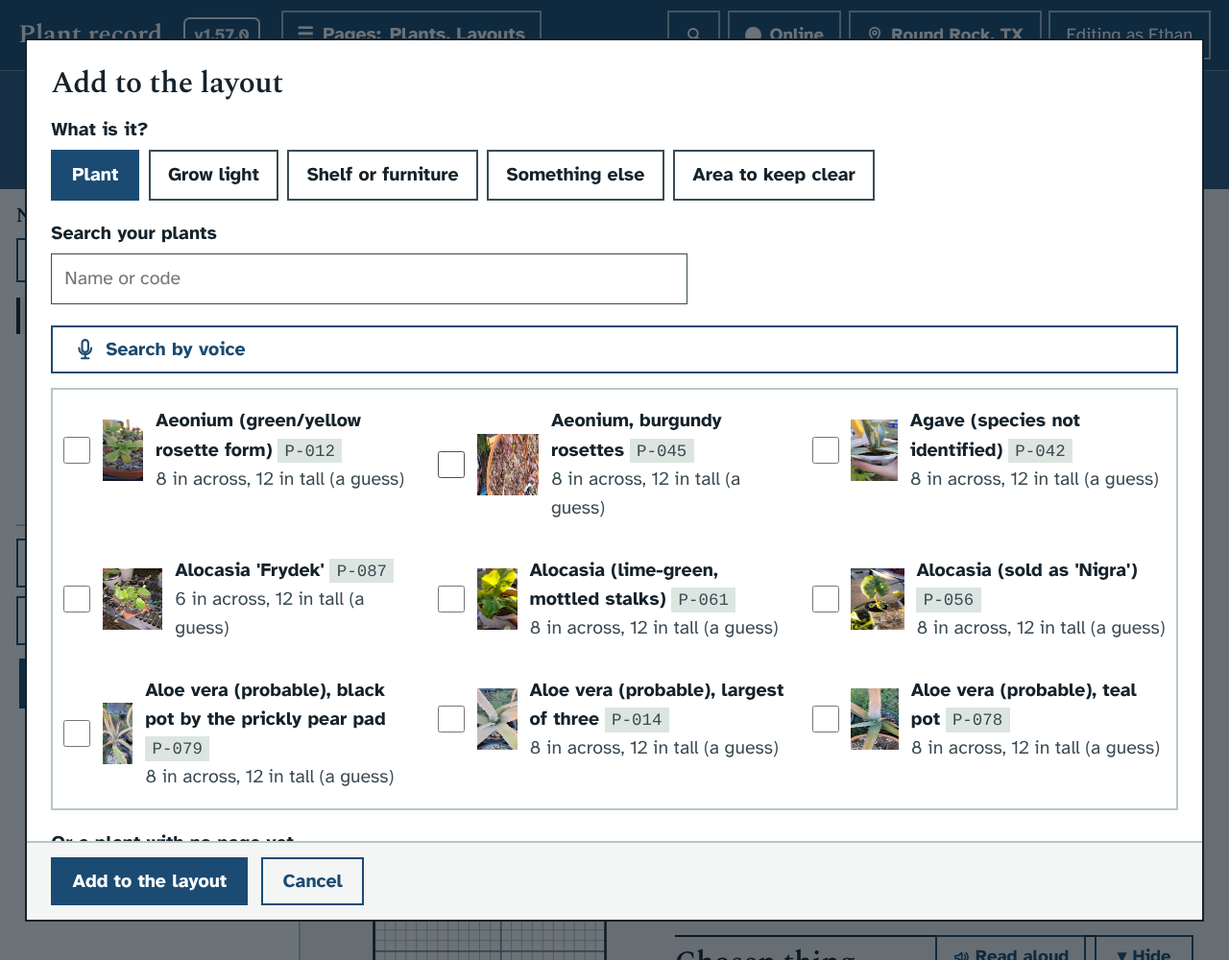
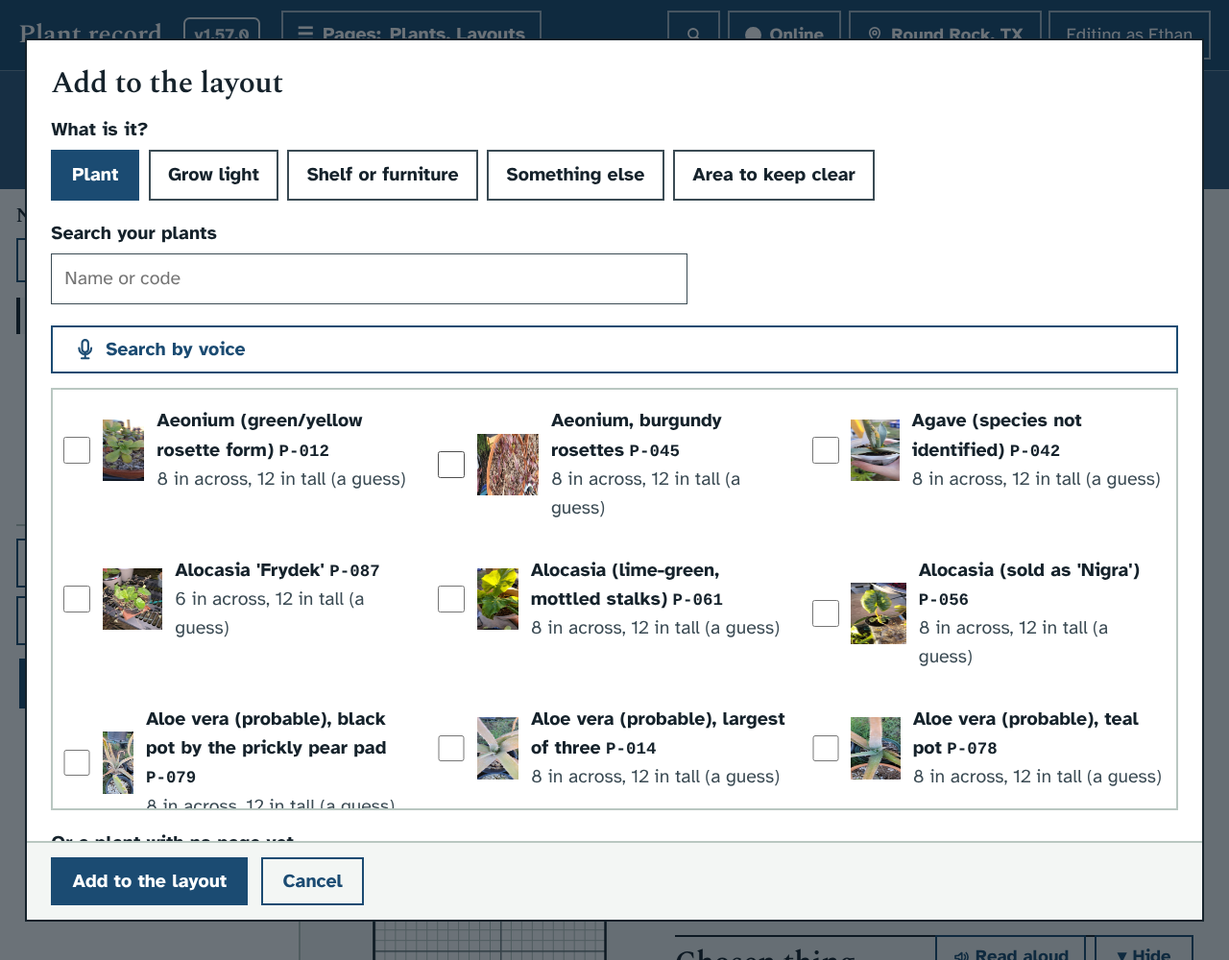
Layouts: things far from every wall have a front view of their own
Ethan, November 15, 2026: "Things far away from every wall should have a view
of their own and not be shown in the front view for the specified wall."

- A thing is at a wall when it is within 2 ft of it. A thing farther than
  that from every wall is in no wall's view: it is in "Middle", a view of
  its own that looks the way the back wall's view does. The front view goes
  there when such a thing is chosen.
- The list of views has short words (Back wall, Left wall, Right wall, Front
  wall, Middle, Everything), so none is cut off at the largest, widest text
  on a phone. The line above the drawing says how many things are there.
- For the colour themes that main now has: a plant's code on this page has
  no chip behind it and stands outside the muted text, and "Show it" has a
  plain background. Each was under 7 to 1 in a dark theme.

Claude-Session: https://claude.ai/code/session_01Utgyt8oq66snddSh4PMk6D

diff --git a/app/static/js/layouts.js b/app/static/js/layouts.js
@@ -420,32 +420,34 @@ function lyLevelNow() {
 // ---------- the front view, one wall at a time ----------
 // In a room, an area or a space of your own the front view looks at one wall from inside and draws only the things at that wall
 // (Ethan, November 15, 2026: "focus its perspective on one wall at a time, to reduce screen clutter"). A thing is at a wall when it
-// is within LY_WALL_IN of it, or when no wall is nearer; what stands on a thing or hangs under it is wherever that thing is. So
-// every thing is in at least one wall's view. 'all' draws everything, looking at the back wall, which is also what the layout
-// of one shelf or spot always does. Looking at a wall, the view's left is your left as you face it:
+// is within LY_WALL_IN of it; what stands on a thing or hangs under it is wherever that thing is. A thing far from every wall is
+// at none of them: those have a view of their own, 'mid' (Ethan, November 15: "Things far away from every wall should have a view
+// of their own and not be shown in the front view for the specified wall"). So every thing is in at least one view. 'all' draws
+// everything, as the layout of one shelf or spot always does. 'mid' and 'all' look the way the back wall's view does. Looking at
+// a wall, the view's left is your left as you face it:
 //   back   left to right is the top view's left to right
 //   right  left to right is the top view's back to front
 //   front  left to right is the top view's right to left
 //   left   left to right is the top view's front to back
-const LY_WALLS = { back: 'The back wall', left: 'The left wall', right: 'The right wall', front: 'The front wall', all: 'Every wall at once' };
-const LY_WALL_OPT = { back: 'Back wall', left: 'Left wall', right: 'Right wall', front: 'Front wall', all: 'Every wall' };      // as the list beside the front view has them
+const LY_WALLS = { back: 'The back wall', left: 'The left wall', right: 'The right wall', front: 'The front wall', mid: 'The middle, away from the walls', all: 'Everything at once' };
+const LY_WALL_OPT = { back: 'Back wall', left: 'Left wall', right: 'Right wall', front: 'Front wall', mid: 'Middle', all: 'Everything' };      // as the list beside the front view has them: short, so none is cut off in the list at the largest, widest text on a phone
 const LY_WALL_ENDS = { back: ['Left', 'Right'], right: ['Back', 'Front'], front: ['Right', 'Left'], left: ['Front', 'Back'] };      // what is at the view's left and right
-const LY_WALL_IN = 6;
+const LY_WALL_IN = 24;                                  // nearer a wall than this (2 ft), a thing is at that wall
 const lyWalled = L => !L.spot_id;
-const lyFaceOf = wall => (wall && wall !== 'all' ? wall : 'back');
+const lyFaceOf = wall => (LY_WALL_ENDS[wall] ? wall : 'back');
 const lyFaceNow = () => (LY && lyWalled(LY.d) ? lyFaceOf(LY.wall) : 'back');
 const lySide = face => face === 'left' || face === 'right';
 const lyAcrossW = (L, face) => (lySide(face) ? L.depth_in : L.width_in);                                   // how wide that wall is
 const lyAc = (L, it, face) => (face === 'left' ? L.depth_in - it.y - it.d : face === 'right' ? it.y : face === 'front' ? L.width_in - it.x - it.w : it.x);      // where a thing is across the view, from its left
 const lyAw = (it, face) => (lySide(face) ? it.d : it.w);                                                  // and how wide it is there
 const lyNear = (L, it, face) => (face === 'left' ? it.x + it.w : face === 'right' ? L.width_in - it.x : face === 'front' ? L.depth_in - it.y : it.y + it.d);      // how far its near side is from the wall: the larger, the nearer to you
-function lyWallsOf(L, it, seen) {                        // the walls a thing is at, the first being the one the front view goes to for it
+function lyWallsOf(L, it, seen) {                        // the walls a thing is at (or 'mid' alone), the first being the view the front view goes to for it
   const u = lyUnder(L, it), c = u && u !== 'floor' ? u : it.kind === 'light' && !u ? lyOver(L, it) : null;
   seen = seen || new Set(); seen.add(it.id);
   if (c && c !== 'top' && !seen.has(c.id)) return lyWallsOf(L, c, seen);
   const d = { back: Math.max(0, it.y), left: Math.max(0, it.x), right: Math.max(0, L.width_in - it.x - it.w), front: Math.max(0, L.depth_in - it.y - it.d) };
-  const least = Math.min(d.back, d.left, d.right, d.front);
-  return Object.keys(d).filter(w => d[w] <= Math.max(least + LY_EPS, LY_WALL_IN));
+  const at = Object.keys(d).filter(w => d[w] <= LY_WALL_IN + LY_EPS);
+  return at.length ? at : ['mid'];
 }
 const lyWallSet = (L, wall) => (wall === 'all' ? null : new Set(L.items.filter(it => lyWallsOf(L, it).includes(wall)).map(it => it.id)));      // the things a wall's view draws (null: all of them)
 // The front view goes to the wall the thing is at, unless it is at the wall being looked at already. Called when a thing is
@@ -754,7 +756,7 @@ function lyOpts(view) {
     dim: view === 'top' ? lyDim(LY.d, lyLevelNow()) : null,
     label: view === 'top' ? `Top view of ${LY.d.name}, looking down. The back is at the top of the drawing and the front at the bottom.`
       : `Front view of ${LY.d.name}${walled && LY.wall !== 'all' ? `, looking at ${LY_WALLS[LY.wall].toLowerCase()}` : ''}. The floor is at the bottom of the drawing.` };
-  if (view === 'top') o.wallmark = walled && LY.wall !== 'all' && lyViewNow() === 'both' ? LY.wall : null;
+  if (view === 'top') o.wallmark = walled && LY_WALL_ENDS[LY.wall] && lyViewNow() === 'both' ? LY.wall : null;
   else { o.face = lyFaceNow(); o.only = walled ? lyWallSet(LY.d, LY.wall) : null; o.noname = lyNameClash(LY.d, o); }
   o.along = lyLabSpots(LY.d, view, o);
   return o;
@@ -765,9 +767,9 @@ function lyFigure(view) {
   return html`<figure class="ly-fig" data-view="${view}">
     <figcaption><strong>${top ? 'Top view' : one ? `Front view: ${LY_WALLS[LY.wall].toLowerCase()}` : 'Front view'}</strong> <span class="muted">${lenF(top ? L.width_in : lyAcrossW(L, face))} wide, ${top ? `${lenF(L.depth_in)} deep` : `${lenF(L.height_in)} high`}.${
       LY.grid && Math.abs(step - L.grid_in) > 0.006 ? ` The squares drawn here are ${lenF(step)}.` : ''}${top && lv ? ` Showing ${lv.name}; the other levels are faint.` : ''}${
-      top && o.wallmark ? ' The heavy edge is the wall the front view looks at.' : ''}</span></figcaption>
-    ${!top && walled ? html`<label class="f ly-wall noprint">Front view looks at<select id="ly-wall" data-act="lywall">${Object.keys(LY_WALLS).map(w => { const n = w === 'all' ? L.items.length : lyWallSet(L, w).size;
-      return html`<option value="${w}" ${LY.wall === w ? raw('selected') : ''}>${LY_WALL_OPT[w]}: ${n} ${n === 1 ? 'thing' : 'things'}</option>`; })}</select></label>` : ''}
+      top && o.wallmark ? ' The heavy edge is the wall the front view looks at.' : ''}${
+      !top && one ? (o.only.size ? ` ${o.only.size} of the ${L.items.length} things are here.` : ' Nothing is here.') : ''}</span></figcaption>
+    ${!top && walled ? html`<label class="f ly-wall noprint">Front view looks at<select id="ly-wall" data-act="lywall">${Object.keys(LY_WALLS).map(w => html`<option value="${w}" ${LY.wall === w ? raw('selected') : ''}>${LY_WALL_OPT[w]}</option>`)}</select></label>` : ''}
     <div class="ly-frame"><p class="ly-edge" aria-hidden="true">${top ? 'Back' : 'Top'}</p>
       <div class="ly-scroll" id="ly-scroll-${view}">${lySvg(L, view, o)}</div>
       <p class="ly-edge ly-edge-row" aria-hidden="true"><span>${ends[0]}</span><span>${top ? 'Front' : 'Floor'}</span><span>${ends[1]}</span></p></div></figure>`;
@@ -865,7 +867,7 @@ function lyPanel() {                                    // the chosen thing: wha
   const P = it.plant ? L.plants.find(p => p.code === it.plant) : null;
   box.innerHTML = rend(html`<div class="ly-who">${it.photo ? html`<img src="${thumbUrl(it.photo)}" alt="" loading="lazy">` : ''}
       <p><span class="ly-num">${it.sort}</span> <strong>${it.plant && !it.gone ? html`<a href="#/plant/${enc(it.plant)}">${it.name}</a>` : it.name}</strong><br>
-        <span class="muted">${L.kinds[it.kind]}${it.plant ? ', ' : ''}${it.plant ? html`<span class="code">${it.plant}</span>` : ''}${it.gone ? '. It is no longer in the record.' : ''}</span></p></div>
+        <span class="muted">${L.kinds[it.kind]}${it.plant ? ',' : ''}</span>${it.plant ? html` <span class="code">${it.plant}</span>` : ''}${it.gone ? html`<span class="muted">. It is no longer in the record.</span>` : ''}</p></div>
     <ul class="ly-flist" id="ly-p-find">${LY.F.filter(f => f.ids.includes(it.id)).map(lyFindLi)}</ul>
     ${!linked ? html`<label class="f">Name<input type="text" maxlength="80" id="ly-f-name" data-act="lyset" data-k="name" value="${it.name}" autocomplete="off" ${ro}></label>` : ''}
     <div class="field-grid three ly-fields">${num('x', 'From the left')}${num('y', 'From the back')}${num('z', 'Off the floor')}
@@ -905,7 +907,7 @@ function lyLists() {                                    // what to look at, ever
   const tags = it => F.filter(f => lyMarked(f).includes(it.id) && !lyIsLv(f.kind)).map(f => f.kind).filter((k, i, a) => a.indexOf(k) === i).map(k => html` <span class="ly-tag ${['outside', 'overlap'].includes(k) ? 'ly-tag-hard' : 'ly-tag-soft'}"><span aria-hidden="true">${['outside', 'overlap'].includes(k) ? '✗' : '!'} </span>${LY_WORD[k]}</span>`);
   document.getElementById('ly-things-body').innerHTML = rend(L.items.length ? html`<ul class="ly-list">${L.items.map(it => html`<li class="ly-row${LY.sel === it.id ? ' is-sel' : ''}${st.get(it.id) ? ' is-' + st.get(it.id) : ''}" data-id="${it.id}">
       ${it.photo ? html`<img src="${thumbUrl(it.photo)}" alt="" loading="lazy">` : html`<span class="ly-nophoto ly-np-${it.kind}" aria-hidden="true"></span>`}
-      <div class="ly-row-main"><div class="ly-row-txt"><span class="ly-num" aria-hidden="true">${it.sort}</span> <strong>${it.plant && !it.gone ? html`<a href="#/plant/${enc(it.plant)}">${it.name}</a>` : it.name}</strong> <span class="muted">${L.kinds[it.kind]}${it.plant ? ', ' : ''}${it.plant ? html`<span class="code">${it.plant}</span>` : ''}</span>${tags(it)}${lvOf(it)}
+      <div class="ly-row-main"><div class="ly-row-txt"><span class="ly-num" aria-hidden="true">${it.sort}</span> <strong>${it.plant && !it.gone ? html`<a href="#/plant/${enc(it.plant)}">${it.name}</a>` : it.name}</strong> <span class="muted">${L.kinds[it.kind]}${it.plant ? ',' : ''}</span>${it.plant ? html` <span class="code">${it.plant}</span>` : ''}${tags(it)}${lvOf(it)}
         <br><span>${lySizeWords(it)}. ${lyWhere(L, it)[0].toUpperCase() + lyWhere(L, it).slice(1)}.${it.locked ? ' Locked in place.' : ''}${it.gone ? ' No longer in the record.' : ''}${lyLightLine(it)}</span></div>
       <button class="btn small ghost" type="button" data-act="lypick" data-id="${it.id}" aria-label="${LY.sel === it.id ? 'Chosen' : 'Choose'}: ${it.sort}, ${it.name}" ${LY.sel === it.id ? raw('aria-pressed="true"') : ''}>${LY.sel === it.id ? 'Chosen' : 'Choose'}</button></div></li>`)}</ul>`
     : html`<p class="muted">Nothing is on it yet.</p>`);
@@ -914,7 +916,7 @@ function lyLists() {                                    // what to look at, ever
   document.getElementById('ly-tray-body').innerHTML = rend(html`<p>${tray.length === 1 ? 'This plant is' : `These ${tray.length} plants are`} at ${L.place || 'this place'} in your record but not on the drawing.</p>
     ${tray.length > 1 ? html`<p><button class="btn small" type="button" data-act="lytray" data-all="1">Put all ${tray.length} on the layout</button></p>` : ''}
     ${tray.length > 12 ? raw(`<details class="ly-fold"><summary class="btn small ghost"><span>Show these ${tray.length} plants</span></summary>`) : ''}<ul class="ly-list">${tray.map(p => html`<li class="ly-row">${p.photo ? html`<img src="${thumbUrl(p.photo)}" alt="" loading="lazy">` : html`<span class="ly-nophoto" aria-hidden="true"></span>`}
-      <div class="ly-row-main"><div class="ly-row-txt"><strong><a href="#/plant/${enc(p.code)}">${p.name}</a></strong> <span class="muted"><span class="code">${p.code}</span></span><br><span>${lySizeWords(p)}${p.guessed.length ? ' (a guess)' : ''}</span></div>
+      <div class="ly-row-main"><div class="ly-row-txt"><strong><a href="#/plant/${enc(p.code)}">${p.name}</a></strong> <span class="code">${p.code}</span><br><span>${lySizeWords(p)}${p.guessed.length ? ' (a guess)' : ''}</span></div>
       <button class="btn small ghost" type="button" data-act="lytray" data-code="${p.code}" aria-label="Put it on: ${p.name}">Put it on</button></div></li>`)}</ul>${tray.length > 12 ? raw('</details>') : ''}`);
   lyRecDraw();
 }
@@ -931,7 +933,7 @@ function lyRecDraw() {                                  // the plants drawn here
   document.getElementById('ly-rec-body').innerHTML = rend(!list.length ? '' : html`<p>${list.length === 1 ? 'This plant is' : `These ${list.length} plants are`} drawn here, but your record has ${list.length === 1 ? 'it' : 'them'} somewhere else. Nothing in the record changes until you say so here.</p>
     ${list.length > 1 ? html`<p><button class="btn small" type="button" id="ly-recall" data-act="lyrec" data-all="1">Move ${list.length === 2 ? 'both' : `all ${list.length}`} in the record</button></p>` : ''}
     ${list.length > 12 ? raw(`<details class="ly-fold"><summary class="btn small ghost"><span>Show these ${list.length} plants</span></summary>`) : ''}<ul class="ly-list">${list.map(({ it, to }) => html`<li class="ly-row">${it.photo ? html`<img src="${thumbUrl(it.photo)}" alt="" loading="lazy">` : html`<span class="ly-nophoto" aria-hidden="true"></span>`}
-      <div class="ly-row-main"><div class="ly-row-txt"><span class="ly-num" aria-hidden="true">${it.sort}</span> <strong><a href="#/plant/${enc(it.plant)}">${it.name}</a></strong> <span class="muted"><span class="code">${it.plant}</span></span>
+      <div class="ly-row-main"><div class="ly-row-txt"><span class="ly-num" aria-hidden="true">${it.sort}</span> <strong><a href="#/plant/${enc(it.plant)}">${it.name}</a></strong> <span class="code">${it.plant}</span>
         <br><span>In your record: ${it.rec_label || 'no room or shelf'}. On this layout: ${to.label}.</span></div>
       <button class="btn small ghost" type="button" data-act="lyrec" data-id="${it.id}" aria-label="Move it in the record: ${it.name}">Move it in the record</button></div></li>`)}</ul>${list.length > 12 ? raw('</details>') : ''}`);
   if (keep) { const el = keep === 'all' ? document.getElementById('ly-recall') : box.querySelector(`[data-act=lyrec][data-id="${keep}"]`); if (el) el.focus({ preventScroll: true }); }
@@ -1313,7 +1315,7 @@ async function lyAddDialog() {
       <label class="f">Search your plants<input type="search" id="ly-add-q" autocomplete="off" placeholder="Name or code"></label><p class="hint" id="ly-add-n" role="status"></p>
       ${free.length ? html`<ul class="ly-picks">${free.map(p => html`<li class="ly-pick" data-q="${(p.name + ' ' + p.code).toLowerCase()}"><label class="chk"><input type="checkbox" name="plant" value="${p.code}">
         ${p.photo ? html`<img src="${thumbUrl(p.photo)}" alt="" loading="lazy">` : html`<span class="ly-nophoto" aria-hidden="true"></span>`}
-        <span><strong>${p.name}</strong> <span class="muted"><span class="code">${p.code}</span>${p.here ? ', here' : ''}</span><br><span class="muted">${lySizeWords(p)}${p.guessed.length ? ' (a guess)' : ''}</span></span></label></li>`)}</ul>`
+        <span><strong>${p.name}</strong> <span class="code">${p.code}</span>${p.here ? html`<span class="muted">, here</span>` : ''}<br><span class="muted">${lySizeWords(p)}${p.guessed.length ? ' (a guess)' : ''}</span></span></label></li>`)}</ul>`
         : html`<p class="muted">Every plant at this home is on the layout already.</p>`}
       <label class="f">Or a plant with no page yet<input type="text" name="newplant" maxlength="80" autocomplete="off" placeholder="A Monstera I am thinking of buying"><small>It is drawn 8 in across and 12 in tall to start with.</small></label></div>
     <div data-lyk="light" hidden>${L.lights.length ? html`<label class="f">Which light<select name="light">${L.lights.map(x => { const n = L.items.filter(i => i.light_id === x.id).length; return html`<option value="${x.id}">${x.name} (${x.count} owned, ${n} drawn)</option>`; })}</select></label>

diff --git a/app/static/css/layouts.css b/app/static/css/layouts.css
@@ -129,6 +129,7 @@
 .ly-f-hard{border-left-color:var(--madder);background:var(--madder-soft)}
 .ly-f>span{flex:1 1 11rem;min-width:0;overflow-wrap:anywhere}
 .ly-f .btn{flex:none}
+.ly-f .btn.ghost{background:var(--sheet)}      /* on the coloured row its words were under 7 to 1 in the dark themes */
 .ly-tag{display:inline-block;max-width:100%;border:2px solid var(--ochre);padding:0 .45rem;font-weight:700;font-size:1rem;line-height:1.5}
 .ly-tag-hard{border-color:var(--madder);border-style:double;border-width:4px}
 .ly-tag-ok{border-color:var(--moss)}
@@ -142,7 +143,7 @@
 .ly-np-shelf{border:2px solid var(--ink-2)}
 .ly-np-zone{background:none;border:2px dashed var(--ink-2)}
 .ly-row-txt{flex:1 1 11rem;min-width:0;overflow-wrap:break-word}
-.ly-row-txt .code,.ly-who .code,.ly-pick .code{white-space:nowrap}
+.ly-row-txt .code,.ly-who .code,.ly-pick .code{white-space:nowrap;background:none;padding:0;font-weight:700}      /* no chip behind a plant's code here: on the chip's colour the code is 4.24 to 1 in the dark high-contrast theme */
 .ly-row .ly-tag{margin:.1rem 0}
 /* a plant's light where it is drawn, and where the record has it */
 .ly-light p{margin:.3rem 0}

diff --git a/dev/test/layouts_check.py b/dev/test/layouts_check.py
@@ -159,17 +159,17 @@ with sync_playwright() as p:
       const L = {{ width_in: 100, depth_in: 80, height_in: 90, clear_in: 1, grid_in: 1, items: [T(1, 'shelf', 10, 0, 0, 30, 12, 60, {{ levels: lv, board_in: 0.75 }}),
         T(2, 'plant', 12, 2, 0.75, 6, 6, 8), T(3, 'plant', 20, 2, 21.5, 6, 6, 8), T(4, 'light', 10, 4, 19.25, 30, 2, 1.5),          // on its level 1, on its level 2, a strip up under level 2's board
         T(5, 'other', 60, 44, 0, 20, 20, 30), T(6, 'other', 62, 46, 30, 8, 8, 10), T(7, 'plant', 63, 47, 40, 4, 4, 6),               // a table, a box on it, a plant on the box
-        T(8, 'plant', 72, 50, 30, 6, 6, 8, {{ locked: true }}), T(9, 'plant', 2, 30, 0, 6, 6, 10), T(10, 'zone', 58, 42, 0, 30, 30, 40), T(11, 'other', 0, 0, 0, 8, 8, 20)] }};
+        T(8, 'plant', 72, 50, 30, 6, 6, 8, {{ locked: true }}), T(9, 'plant', 2, 30, 0, 6, 6, 10), T(10, 'zone', 58, 42, 0, 30, 30, 40), T(11, 'other', 0, 0, 0, 8, 8, 20), T(12, 'plant', 40, 30, 0, 10, 10, 12)] }};
       const ids = a => a.map(t => t.id).sort((x, y) => x - y), I = n => L.items[n - 1];
       const rs = lyCarryStart(L, I(1)), was = {{ ...I(1) }}; I(1).x += 5; I(1).z += 2; lyCarryMove(I(1), was, rs); const moved = [2, 3, 4].map(n => [I(n).x, I(n).z]); Object.assign(I(1), was); rs.forEach(r => Object.assign(r.it, r.was));
       const st = lyStandOpts(L, I(5)).map(o => o.w);
       return {{ shelf: ids(lyRiders(L, I(1))), table: ids(lyRiders(L, I(5))), plant: ids(lyRiders(L, I(9))), zone: ids(lyRiders(L, I(10))), moved, onbox: st.some(w => w.startsWith('other 6')),
-        walls: [1, 3, 4, 5, 7, 9, 11].map(n => lyWallsOf(L, I(n)).join('+')), back: [...lyWallSet(L, 'back')].sort((x, y) => x - y), all: lyWallSet(L, 'all'),
+        walls: [1, 3, 4, 5, 7, 9, 11, 12].map(n => lyWallsOf(L, I(n)).join('+')), back: [...lyWallSet(L, 'back')].sort((x, y) => x - y), mid: [...lyWallSet(L, 'mid')], all: lyWallSet(L, 'all'),
         across: ['back', 'right', 'front', 'left'].map(f => [lyAc(L, I(1), f), lyAw(I(1), f), lyAcrossW(L, f)]), near: ['back', 'right', 'front', 'left'].map(f => lyNear(L, I(1), f)) }}; }}""")
     check(car['shelf'] == [2, 3, 4] and car['table'] == [6, 7] and car['plant'] == [] and car['zone'] == [] and car['moved'] == [[17, 2.75], [25, 23.5], [15, 21.25]] and not car['onbox'],
           f"a shelf carries what stands on its levels and the strip under one of its boards; a table carries the box on it and the plant on the box, and not a thing locked in place; each goes as far as the shelf goes; \"Stands on\" does not offer what the thing itself carries ({car['shelf']} {car['table']} {car['moved']})")
-    check(car['walls'] == ['back', 'back', 'back', 'front', 'front', 'left', 'back+left'] and car['back'] == [1, 2, 3, 4, 11] and car['all'] is None,
-          f"a thing is at the wall it is within 6 in of, else at the nearest; what stands on a thing or hangs under it is at that thing's wall; a thing in a corner is at both walls ({car['walls']} {car['back']})")
+    check(car['walls'] == ['back+left', 'back+left', 'back+left', 'right+front', 'right+front', 'left', 'back+left', 'mid'] and car['back'] == [1, 2, 3, 4, 11] and car['mid'] == [12] and car['all'] is None,
+          f"a thing is at each wall it is within 2 ft of; what stands on a thing or hangs under it is at that thing's walls; a thing more than 2 ft from every wall is at none, and is in the view of the things away from the walls ({car['walls']} {car['back']} {car['mid']})")
     check(car['across'] == [[10, 30, 100], [0, 12, 80], [60, 30, 100], [68, 12, 80]] and car['near'] == [12, 90, 80, 40],
           f"looking at each wall, a thing is drawn from your left as you face it: the back wall as the top view has it, the right wall from back to front, the front wall from right to left, the left wall from front to back ({car['across']})")
 
@@ -524,9 +524,9 @@ with sync_playwright() as p:
     pg.click('#ly-v-both', force=True); until(pg, lambda: pg.locator('svg.ly-svg[data-view=front]').count() == 1)
     front = lambda sel='g.ly-it': pg.locator(f'svg.ly-svg[data-view=front] {sel}')
     total = pg.evaluate('LY.d.items.length'); nb = pg.evaluate("lyWallSet(LY.d, 'back').size")
-    check(pg.input_value('#ly-wall') == 'back' and 'the back wall' in pg.inner_text('figure[data-view=front] figcaption') and pg.evaluate("document.getElementById('ly-wall').selectedOptions[0].textContent") == f'Back wall: {nb} things' 
-          and front().count() == nb < total and pg.locator('svg.ly-svg[data-view=top] .ly-wallmark').count() == 1 and len(pg.evaluate("[...document.querySelectorAll('#ly-wall option')].map(o => o.textContent)")) == 5,
-          f'in a room the front view starts at the back wall and draws the {nb} of {total} things that are there; the top view marks that wall with a heavy edge; a list offers the four walls and every wall at once')
+    check(pg.input_value('#ly-wall') == 'back' and 'the back wall' in pg.inner_text('figure[data-view=front] figcaption') and pg.evaluate("document.getElementById('ly-wall').selectedOptions[0].textContent") == 'Back wall' and f'{nb} of the {total} things are here' in pg.inner_text('figure[data-view=front] figcaption') 
+          and front().count() == nb < total and pg.locator('svg.ly-svg[data-view=top] .ly-wallmark').count() == 1 and pg.evaluate("[...document.querySelectorAll('#ly-wall option')].map(o => o.value)") == ['back', 'left', 'right', 'front', 'mid', 'all'],
+          f'in a room the front view starts at the back wall and draws the {nb} of {total} things that are there; the top view marks that wall with a heavy edge; a list offers the four walls, the things away from the walls, and everything at once')
     pick(rp3); pg.select_option('#ly-f-on', 'floor'); until(pg, lambda: it(pg, rp3)['z'] == 0)
     for k, val in (('y', 60), ('x', pg.evaluate('LY.d.width_in') - 8)): pg.fill(f'#ly-f-{k}', str(val)); pg.press(f'#ly-f-{k}', 'Tab')
     check(until(pg, lambda: (it(pg, rp3)['x'], it(pg, rp3)['y']) == (pg.evaluate('LY.d.width_in') - 8, 60) and pg.input_value('#ly-wall') == 'right') and front(f'g.ly-it[data-id="{rp3}"]').count() == 1
@@ -548,8 +548,16 @@ with sync_playwright() as p:
         pg.keyboard.press('ArrowRight'); until(pg, lambda: it(pg, lw)['y'] == y0)
     pick(rp3)
     check(until(pg, lambda: pg.input_value('#ly-wall') == 'right') and front(f'g.ly-it[data-id="{rp3}"]').count() == 1, 'choosing the plant again brings the front view back to its wall')
+    # a thing far from every wall is in no wall's view: it has a view of its own
+    for k, val in (('x', 60), ('y', 50)): pg.fill(f'#ly-f-{k}', str(val)); pg.press(f'#ly-f-{k}', 'Tab')
+    check(until(pg, lambda: (it(pg, rp3)['x'], it(pg, rp3)['y']) == (60, 50) and pg.input_value('#ly-wall') == 'mid') and front(f'g.ly-it[data-id="{rp3}"]').count() == 1 and front().count() == pg.evaluate("lyWallSet(LY.d, 'mid').size")
+          and 'away from the walls' in pg.inner_text('figure[data-view=front] figcaption') and pg.locator('svg.ly-svg[data-view=top] .ly-wallmark').count() == 0
+          and pg.evaluate(f"['back', 'left', 'right', 'front'].every(w => !lyWallSet(LY.d, w).has({rp3}))"),
+          'moved to the middle of the room, more than 2 ft from every wall, the plant is in no wall\'s view: the front view turns to the things away from the walls')
+    pg.select_option('#ly-wall', 'back')
+    check(until(pg, lambda: 'the back wall' in pg.inner_text('figure[data-view=front] figcaption')) and front(f'g.ly-it[data-id="{rp3}"]').count() == 0, 'and the back wall\'s view does not draw it')
     pg.select_option('#ly-wall', 'all')
-    check(until(pg, lambda: front().count() == total) and pg.locator('svg.ly-svg[data-view=top] .ly-wallmark').count() == 0 and 'wall' not in pg.inner_text('figure[data-view=front] figcaption strong'), 'Every wall at once draws everything, as before')
+    check(until(pg, lambda: front().count() == total) and pg.locator('svg.ly-svg[data-view=top] .ly-wallmark').count() == 0 and 'wall' not in pg.inner_text('figure[data-view=front] figcaption strong'), 'Everything draws every thing at once, as before')
     shot(pg, '6d-walls')
     pg.select_option('#ly-wall', 'back'); pg.click('#ly-v-top', force=True); until(pg, lambda: pg.locator('svg.ly-svg[data-view=front]').count() == 0)
     check(pg.locator('#ly-wall').count() == 0, 'with the top view alone there is no wall to choose')

diff --git a/CHANGELOG.md b/CHANGELOG.md
@@ -10,7 +10,7 @@
 - **Updates from Claude come as a file you look through.** When Claude has corrections, photos or new pages for your plants, it now saves one small file in the new **plant-updates** folder (inside the plant-database folder) and tells you its name. Until now they waited for a release and went into the public code. Today says when a file is waiting. The page **Updates from Claude** (Plants menu) shows every plant with its picture and its changes: what the page says now, what it would say, and why. Photos that come in a file are shown small, with their captions in words. A new page says which home it is for. Each change is ticked to begin with; untick what you do not want. A change to something that no longer says what the file expected, so it may be an edit of yours, **needs your decision** and stays as it is unless you choose Claude's. Nothing is changed until you press **Make the changes**. Each change is then in the plant's page history and the Audit log, signed "Claude" with the file's name, and Page history can take it back. A file is brought in once. **Change nothing** sets it aside. You can also choose a file kept anywhere on the computer. Only the owner sees the page. The updater makes the folder; the app only reads it.
 - **Missing details.** A new page lists the plants that are missing a detail other pages need: pot size, leaf type, height with its pot, the coldest it can take, how often to check for water, feeding months and safety for pets. Each list says what the detail is for, and each plant has a box to fill it in right there and a **Save** button (feeding months open the plant's Edit page). Saving is an ordinary edit of the plant's page, so it shows in Page history and the Audit log. **All plants** links to it when anything is missing, and Search finds it. Since November 15: **Light** and **Potting mix** are on the list too; **Not now** leaves a plant off one list for a month; long lists show ten plants at a time; and each plant's own page says what it is missing.
 - **Propagation.** Keep track of cuttings, air layers, grafts, divisions, offsets, spores and seeds from the first cut to a new plant. **Start one** (from the Propagation page, or **Start a cutting, layer or seeds from this plant** on any plant's page) and say how many pieces or seeds, what they sit in and where. Today lists the ones that need a look, a changed jar of water, or the next step of a seed's treatment. Record roots, new growth, a graft holding, sprouts (with a count) and losses; each one starts the clock for the next look again. A seed lot can have an ordered list of steps (nick the coat, soak, warm and moist, cold and moist, light), each with its days and temperature range, started by you and ended on the day its days run out. **Pot it up** makes a real plant with its own P-code from one piece, copies what suits the species from the parent, and links the two; a tray of seedlings can be potted up one at a time. The **Family tree** page follows plants through what was made from them and what those made, by generation. **What your attempts show** counts finished attempts only: how many pieces became plants for each way and each plant, and the usual days to a first sign. Nothing about your plants changes until you use it, and no upgrade batch is needed. **Seed lots:** a lot of seed keeps when and where it was collected, a **float or cut test** (how many you tried and how many were sound), how many you **sowed** and how many **sprouted**, so it can say "5 sprouted, 25% of the 20 sown". Any attempt can have **photos**. A person who may change only some homes cannot change an attempt whose parent plant is at another home. Temperatures follow your Units setting. Your phone gets one message at 8 in the morning when a step ends or a lot is due a look. **The Library knows how to start eleven species from seed** (eight oaks, Texas mountain laurel, Texas bluebonnet and butterfly milkweed), each with its source: start a seed lot of one and the page offers its treatment steps with **Use these steps**.
-- **Room and shelf layouts (PROTOTYPE, waiting for your word).** A new page, **Plants → Layouts**, draws a room, a porch or one shelf unit to scale, with your plants, grow lights, shelves and anything else on it, to move about on the page before you move the real ones. A shelf starts with its levels drawn from its measurements; **Lay it out** on Rooms and spots starts one from any room or shelf. Drag things, move them with the arrow keys or type where they go, in a top view and a front view; they snap to a grid you can show, hide and resize. Things that overlap or stick out are marked as you move them, and so is a plant that is crowded, too close to a light or in an area you asked to keep clear, each in a sentence as well as on the drawing. From your answers of November 15: a layout says how much light each plant gets where it is drawn, in the words Grow lights uses, and you set each drawn light's hours and brightness; a plant's height typed on a layout is saved on its page; and **Move it in the record** puts the plants drawn on a layout where the layout has them, when you say so. **Undo** takes each of those back, and **Redo** (Ctrl+Y) does again what Undo took back. On a room's layout a plant dropped onto a shelf stands on it, and **Stands on** lists every shelf and each of its levels. Each plant carries a sign for its light, in red, amber or green, or a grey dash when no drawn light reaches it. A shelf that is moved carries what stands on it. In a room the front view looks at one wall at a time (**Front view looks at**), so things across the room are not drawn over each other.
+- **Room and shelf layouts (PROTOTYPE, waiting for your word).** A new page, **Plants → Layouts**, draws a room, a porch or one shelf unit to scale, with your plants, grow lights, shelves and anything else on it, to move about on the page before you move the real ones. A shelf starts with its levels drawn from its measurements; **Lay it out** on Rooms and spots starts one from any room or shelf. Drag things, move them with the arrow keys or type where they go, in a top view and a front view; they snap to a grid you can show, hide and resize. Things that overlap or stick out are marked as you move them, and so is a plant that is crowded, too close to a light or in an area you asked to keep clear, each in a sentence as well as on the drawing. From your answers of November 15: a layout says how much light each plant gets where it is drawn, in the words Grow lights uses, and you set each drawn light's hours and brightness; a plant's height typed on a layout is saved on its page; and **Move it in the record** puts the plants drawn on a layout where the layout has them, when you say so. **Undo** takes each of those back, and **Redo** (Ctrl+Y) does again what Undo took back. On a room's layout a plant dropped onto a shelf stands on it, and **Stands on** lists every shelf and each of its levels. Each plant carries a sign for its light, in red, amber or green, or a grey dash when no drawn light reaches it. A shelf that is moved carries what stands on it. In a room the front view looks at one wall at a time (**Front view looks at**), so things across the room are not drawn over each other; things far from every wall have a view of their own.
 - **P-094's origin and photos.** P-094 is the Monstera cutting from the coffee shop plant in Baraboo (cut around July 31, 2026). Its page now says so, and has your nine November 11 photos of the cutting in its jar of water (no separate page). The H-E-B tag is removed from P-094's page, because it belongs to P-095; P-094's ID confidence goes from 95% to 75%, since it rested on that tag. Anything you edited yourself is left alone. (Upgrade batch C8.)
 - **Your Baraboo moth orchid has a page.** The moth orchid at your mother's house in Baraboo, Wisconsin, now has its own page (**Moth orchid (grey pot, from Baraboo)**) with your five photos, and Baraboo, WI is added as a home, so its weather and reminders follow that place and not Round Rock. The page is dated July 31, 2026, when the photos were taken, and its health and spot are as of then, since you have not seen it since. It says what you did at the repot: the rotted roots out, the healthy roots set into the bark, drainage holes in the grey pot. That is logged as **Repotted** on July 31, with a potting mix of almost entirely orchid bark. The care steps start with the one that matters in Wisconsin in winter: a tropical orchid must be indoors before nights fall below 55°F. One question waits for you on its page for the next time you see it or ask your mother. It is from the photos alone, so the hybrid is not named until it flowers.
 - **For the computer:** an upgrade batch can now give a new page its own care log, potting mix and questions (batch C9 is the first to use it).

diff --git a/docs/prototypes/layouts.md b/docs/prototypes/layouts.md
@@ -25,8 +25,9 @@ The record already holds most of what such a drawing needs: each shelf's measure
   - A plant too tall for its level is told so, and by how much. From the front such a shelf is its boards, open between them.
 - **A shelf carries what is on it** (Ethan, November 15, 2026: "Plants should be carried with shelves"). Move a shelf, a table or anything else, by dragging, by the arrow keys or by typing, and what stands on it (on any of its levels) or hangs under it goes with it, and so does what stands on those. It is one change: Undo puts all of them back together. A thing locked in place stays where it is.
 - **In a room, the front view looks at one wall at a time** (Ethan, November 15, 2026: "focus its perspective on one wall at a time, to reduce screen clutter").
-  - It starts at the back wall and draws only the things at that wall. **Front view looks at**, above that drawing, chooses the back, left, right or front wall, or every wall at once, and says how many things each has.
-  - A thing is at a wall when it is within 6 in of it, or nearer to it than to any other wall, so every thing is in some wall's view. What stands on a shelf is wherever the shelf is. A thing in a corner is at both walls.
+  - It starts at the back wall and draws only the things at that wall. **Front view looks at**, above that drawing, chooses the back, left, right or front wall, the middle, or everything at once; the line above the drawing says how many things are there.
+  - A thing is at a wall when it is within 2 ft of it. What stands on a shelf is wherever the shelf is. A thing in a corner is at both walls.
+  - A thing more than 2 ft from every wall is in no wall's view. Those have a view of their own, **Middle**, seen from the front of the room (Ethan, November 15, 2026: "Things far away from every wall should have a view of their own and not be shown in the front view for the specified wall").
   - A wall is looked at from inside the room: left and right are your left and right as you face it, the words under the drawing say which way the room runs, and the arrow keys and dragging follow.
   - Choosing a thing takes the front view to its wall. In the top view the wall looked at has a heavy edge.
   - Where two names along the floor would run into each other, the nearer thing keeps its name and the other keeps its number.
@@ -97,6 +98,10 @@ A room's front view, one wall at a time: the back wall, then the left wall of th
 
 ![The front view looking at the left wall](layouts/laptop-wall-left.png)
 
+The things far from every wall, in the view of their own:
+
+![The front view of the middle of the room](layouts/laptop-wall-mid.png)
+
 Phone, dark mode, large text (one view at a time; nothing scrolls sideways):
 
 ![Phone, dark, large text: the top view](layouts/phone-dark-big-top.png) ![Phone, dark, large text: the front view](layouts/phone-dark-big-front.png)
@@ -157,6 +162,12 @@ Then open http://127.0.0.1:8080/#/layouts, press **Start a layout** and choose *
 - **The step that failed once in four runs.** The fault was in the check, not in the page. The step typed two boxes, waited for the "Overlap" mark, and then read where the plant was. The first box alone already makes the two plants overlap, so when that box's save was slow the step read the place before the second box had been taken. With every save held back 400 ms the step failed 10 times in 10, on the page as it was and as it is; at the usual speed it failed 2 times in 10 in a loop. The step now waits for the place and the mark together.
   - The first fix (reading a typed box before waiting for earlier saves) did not cause or cure that failure, but it closed a real fault: with one save on its way and two more boxes typed behind it, the page as it was lost a typed value 10 times in 10; now it keeps each one. The check has a step for it.
 
+## What Ethan said last on November 15, 2026
+"1. Things far away from every wall should have a view of their own and not be shown in the "front view" for the specified wall. 2. The front view turning to the wall of what I choose is correct. 3. Proceed with grow lights reading a layout when done"
+
+- **1:** built. "Far" is more than 2 ft from every wall; nearer than that, a thing is at that wall.
+- **2:** stays as built.
+- **3:** Grow lights reading a layout is being built in a pull request of its own, on top of this one.
+
 ## Questions for Ethan
-1. **Things in the middle of a room.** A sofa or a floor lamp out in the room is drawn in the view of the wall it is nearest to. Is that right, or should things far from every wall have a view of their own?
-2. **The front view follows the chosen thing.** Choose a thing at another wall and the front view turns to that wall. Is that what you want, or should it stay on the wall you picked until you change it?
+1. **How far is far.** A thing is at a wall when it is within 2 ft of it, and away from the walls beyond that. Is 2 ft the right distance?

diff --git a/docs/architecture/layouts.md b/docs/architecture/layouts.md
@@ -25,8 +25,8 @@ State is `LY`; the drawings are SVG; one `addFeature()` call adds the page, the 
 - **Shelves with levels.** A shelf item with `levels` is not solid: its boards are. `lySolids(b)` gives a thing's solid parts, `lySurf(b)` the places on it to stand, `lyRoom(t, b)` the room above a thing, and `lyUp(a, b)` the gap between the nearest solid parts of two things. `lyUnder`, `lyOver`, `lyFree`, `lyPlace`, `lyStops` and the light's "something in the way" all go through these, so a plant can stand on a level inside a block, be too tall for it, or be lit through its open side.
 - **Carrying** (Ethan, November 15: "Plants should be carried with shelves"). `lyRiders(L, it)` is what a thing carries: what stands on any of its surfaces or hangs under one of its solid parts, and what those carry; not a locked thing, not a zone. A move starts with `lyCarryStart` (each rider with its place), and `lyCarryMove(it, from, riders)` gives each rider the thing's own shift. The arrow keys (`LY.nudge.riders`), a drag (`LY.drag.riders`) and the typed boxes and "Stands on" (`lyset`) all do this, and hand the riders to `lyCommit`, which makes one Undo entry and saves each thing. `lyLand`, `lyPutOn`, `lyStops` and `lyStandOpts` take the riders as `skip`: what a thing carries is not in its own way and is nothing for it to land on.
 - **Landing.** `lyLand(L, it, was, skip)` runs after a sideways move (a drag or the arrow keys in the top view, a typed place): a thing that rested on something stays at its height while still over it, goes onto the shelf or thing now under its middle (the lowest level it fits on that is free), or down to the floor. A thing in the air keeps its height. `lyPutOn(L, it, q)` puts a thing on one chosen surface: "Stands on" lists every shelf and level (`lyStandOpts`).
-- **The front view, one wall at a time** (Ethan, November 15). On a layout that is not one spot's (`lyWalled`: a room, an area, a space of one's own) the front view looks at `LY.wall`: `back`, `left`, `right`, `front`, or `all` (everything, facing the back wall; a spot's layout is always that).
-  - `lyWallsOf(L, it)`: the walls a thing is at: within `LY_WALL_IN` (6 in) of it, or the nearest; a thing that stands on or hangs under another is where that one is. `lyWallSet(L, wall)` is the set a view draws; it goes to the drawing as `o.only`, with `o.face` (the wall faced).
+- **The front view, one wall at a time** (Ethan, November 15). On a layout that is not one spot's (`lyWalled`: a room, an area, a space of one's own) the front view looks at `LY.wall`: `back`, `left`, `right`, `front`, `mid` (the things away from the walls) or `all` (everything; a spot's layout is always that). `mid` and `all` face the way `back` does (`lyFaceOf`).
+  - `lyWallsOf(L, it)`: the walls a thing is at: each one it is within `LY_WALL_IN` (24 in) of; a thing that stands on or hangs under another is where that one is; a thing far from every wall gets `['mid']` and is in no wall's view (Ethan, November 15). `lyWallSet(L, wall)` is the set a view draws; it goes to the drawing as `o.only`, with `o.face` (the wall faced).
   - `lyAc(L, it, face)` and `lyAw(it, face)`: where a thing is across the view and how wide; `lyAcrossW` the wall's width; `lyNear` how near the viewer (the paint order). `lyItTf`, `lyGeo`, `lySelMark`, `lyLabSpots`, `lySvg` and `lyMeasure` use them. In `lyNudge` and `lyDragMove` the sideways move is along x or y, turned round at the left and front walls.
   - `lyWallFollow(it)` takes the view to a thing's wall. It is called when a thing is chosen, put on, or moved (also by Undo and Redo) while it is the chosen one; a wall picked by hand stays until then.
   - The chooser (`#ly-wall`, action `lywall`) is in the front view's own figure, not in the tools row: at the largest text on a phone the tools already fill the screen. `lyDrawViews` gives it the keyboard back when it redraws.

diff --git a/manual/layouts.md b/manual/layouts.md
@@ -9,8 +9,9 @@ Part of the Plant record manual. The README in the folder above has how to start
 - **Start a layout.** Choose one of your rooms, areas or shelves, or a space of your own, and give its width, depth and height. A shelf comes with its own size and its levels drawn as boards from **Measurements and photos**; a room starts at 12 by 10 ft (type its real size) with its shelves as blocks along the back wall. On **Rooms and spots**, every room, area and spot has **Lay it out**, which becomes **Open its layout** once it has one.
 - **Two drawings of the same things.** **Top view** looks down (the back at the top); **Front view** looks from the front (the floor at the bottom); **Both** shows them together.
 - **In a room, the front view looks at one wall at a time.** It starts at the back wall and draws only the things at that wall, so things across the room from each other are not drawn on top of each other.
-  - **Front view looks at**, above that drawing, chooses the wall: **Back wall**, **Left wall**, **Right wall**, **Front wall**, or **Every wall** for everything at once. Each says how many things are there.
-  - A thing is at a wall when it is within 6 in of it, or nearer to it than to any other wall. What stands on a shelf is wherever the shelf is. A thing in a corner is at both walls.
+  - **Front view looks at**, above that drawing, chooses the view: **Back wall**, **Left wall**, **Right wall**, **Front wall**, **Middle**, or **Everything**. The line above the drawing says how many things are there.
+  - A thing is at a wall when it is within 2 ft of it. What stands on a shelf is wherever the shelf is. A thing in a corner is at both walls.
+  - A thing more than 2 ft from every wall is in no wall's view. Those things have a view of their own, **Middle**, seen from the front of the room.
   - You look at a wall from inside the room, so left and right are your left and right as you face it. The words under the drawing say which way is which ("Front" and "Back" for a side wall), and the arrow keys and dragging follow them.
   - Choose a thing anywhere and the front view goes to its wall. In the top view the wall being looked at has a heavy edge.
   - The layout of one shelf or spot keeps its whole front view. On a shelf unit the top view shows one level, the one the chosen thing is on, with the others faint; **Top view shows** in **Grid and settings** changes that.
